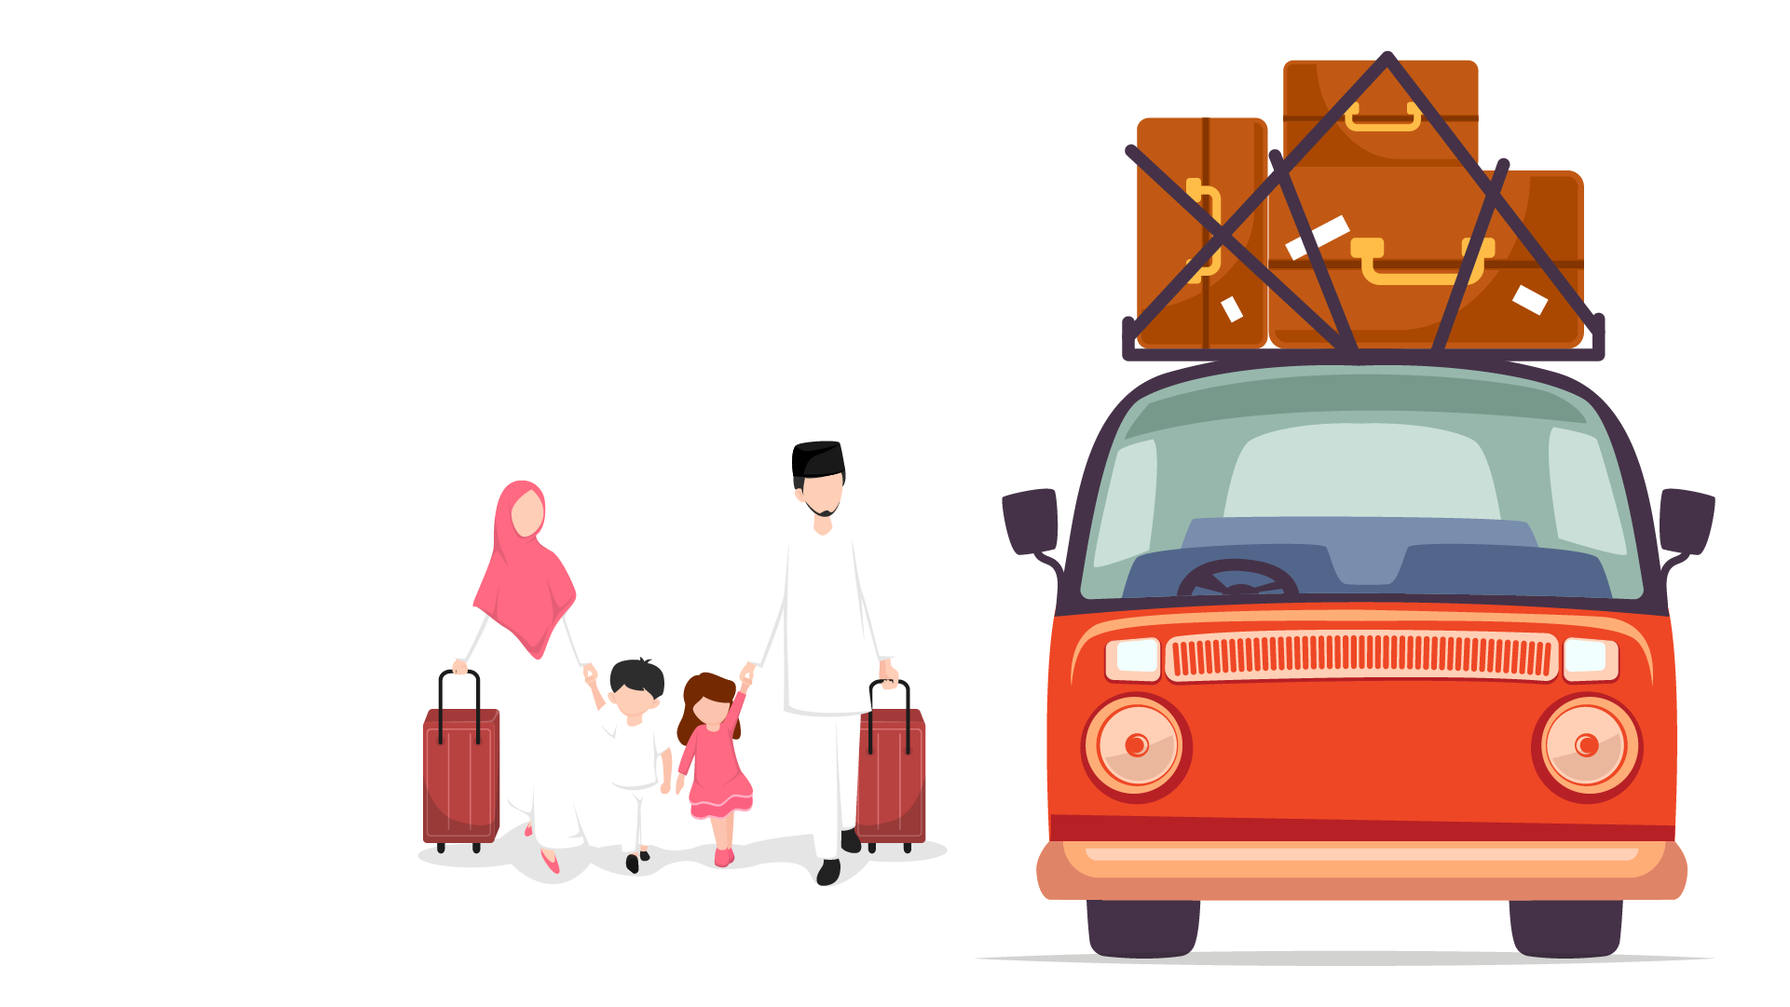
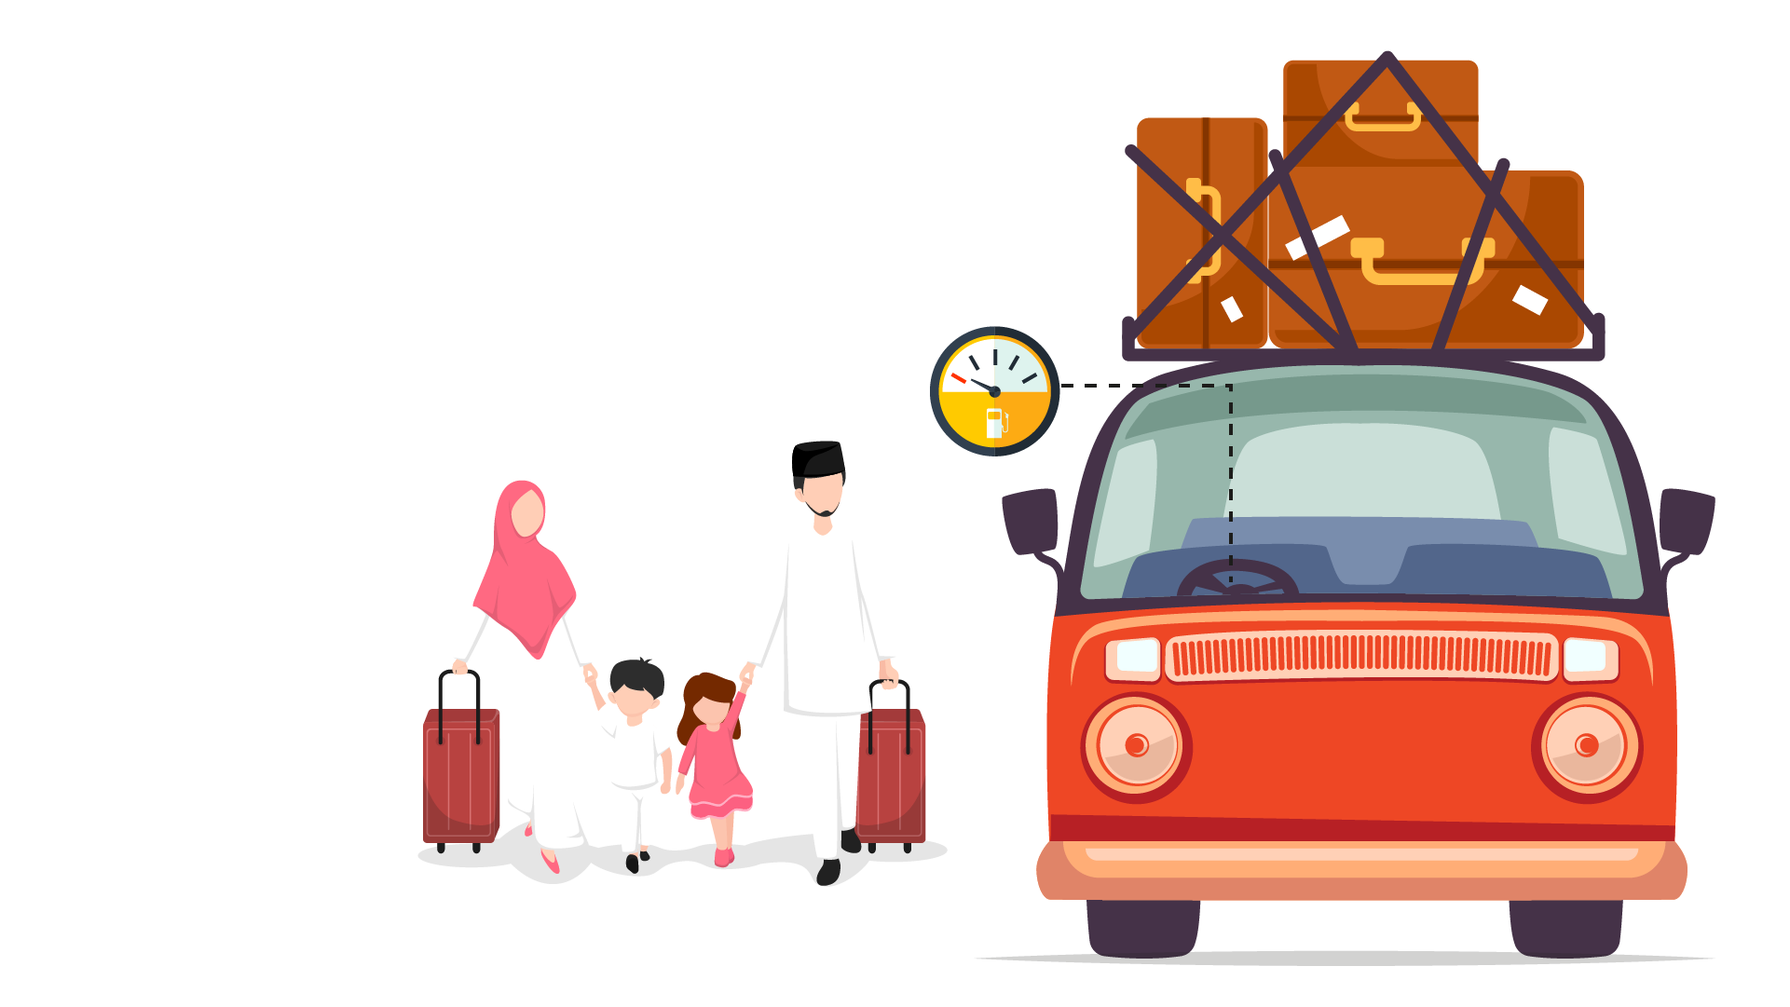
cdc

Changed region(s): [[0.4997, 0.3053, 0.5934, 0.4579]]

diff --git a/sass/style.css b/sass/style.css
@@ -1,1 +1,1 @@
-@import"https://fonts.googleapis.com/css2?family=Zain:wght@300;400;900&family=Bitter:wght@400;600&family=Rubik&family=Paytone+One&family=Source+Code+Pro:wght@400;900&family=Jost:ital,wght@0,100..900;1,100..900&family=Roboto&family=Outfit:wght@300;400;900&family=Sigmar&family=Righteous&display=swap";.banner{padding:0}@media screen and (max-width: 768px){.banner{min-height:85vh}}.banner .image{position:absolute;left:50%;top:50%;translate:-50% -50%;width:100%;height:100%}.banner .image img{width:100%;height:100%;object-fit:cover}.banner .title{position:absolute;left:8%;top:16%;width:45%}@media screen and (max-width: 768px){.banner .title{left:8%;top:16%;width:85%}}.banner .title h2{font-size:3.5rem;color:#05464c;font-family:"Righteous"}@media screen and (max-width: 768px){.banner .title h2{font-size:3rem}}.load{background:linear-gradient(to top, white, white);padding:16px;border-radius:24px;margin-bottom:32px;position:relative}.load::after{width:0;height:0;border-left:25px solid transparent;border-right:25px solid transparent;border-top:50px solid #fff;content:"";position:absolute;left:50%;top:100%;transform:translate(-50%, -50%);z-index:-1}.labels{background:#840020;padding:4px 8px;color:#fff;text-transform:uppercase;width:fit-content;margin:0 auto 8px;font-size:1rem}@media screen and (max-width: 768px){.labels{margin:0}}.preloader{position:fixed;top:0;bottom:0;left:0;right:0;z-index:999999;background:#7cffb1;background-size:contain}.preloader::before{content:"";position:absolute;inset:0;width:100%;height:100%;background:linear-gradient(to top, #7cffb1, rgba(124, 255, 177, 0.6), #7cffb1)}.preloader .waiting{position:absolute;transform:translate(-50%, -50%);left:50%;top:50%;width:100%}.preloader .waiting svg{width:100%;height:100%;visibility:hidden}.preloader .animate{-webkit-animation-duration:.5s;animation-duration:.5s;-webkit-animation-fill-mode:both;animation-fill-mode:both;-webkit-animation-timing-function:linear;animation-timing-function:linear;animation-iteration-count:infinite;-webkit-animation-iteration-count:infinite;-webkit-animation-name:bounce;animation-name:bounce}@-webkit-keyframes bounce{0%,100%{-webkit-transform:translateX(0)}50%{-webkit-transform:translateX(-10px)}}@keyframes bounce{0%,100%{transform:translateX(0)}50%{transform:translateX(-10px)}}.preloader .bounce{-webkit-animation-name:bounce;animation-name:bounce}.mb-80{margin-bottom:20vh}.source-code{font-family:"Source Code Pro"}section{padding:32px 0;background:#7cffb1;min-height:100vh;z-index:11;position:relative}section h3{font-family:"Outfit",sans-serif;font-weight:700;color:#124646;font-size:2rem}@media screen and (max-width: 768px){section h3{font-size:1.6rem}}section .bg-block{background:#fff;padding:16px;border-radius:16px}section p,section li{font-size:1.3rem}@media screen and (max-width: 768px){section p,section li{font-size:1.2rem}}@media screen and (max-width: 400px){section p,section li{font-size:1.2rem}}.slick-next,.slick-prev{z-index:17 !important;width:40px;height:40px;border-radius:50%;background:rgba(206,147,82,.8)}.slick-next:focus,.slick-next:hover,.slick-prev:focus,.slick-prev:hover{background:rgba(206,147,82,.5)}.slick-next::before,.slick-prev::before{font-family:"fontAwesome" !important;font-size:32px !important;color:#fff !important;font-weight:700 !important}@media screen and (max-width: 766px){.slick-next::before,.slick-prev::before{font-size:32px !important}}.slick-prev{left:-16px !important}@media screen and (max-width: 768px){.slick-prev{left:-16px !important}}.slick-prev::before{content:"" !important}.slick-next{right:-16px !important}@media screen and (max-width: 768px){.slick-next{right:-16px !important}}.slick-next::before{content:"" !important}.sticky-mode{position:sticky;left:0;right:0;top:0;bottom:0;min-height:100vh}.wrap-detikx{width:700px;position:relative;margin:0 auto}@media screen and (max-width: 766px){.wrap-detikx{width:90%;margin:0 auto;display:block}}.line-line{width:100%;height:1px;background:linear-gradient(to right, transparent, white, transparent);margin:24px 0}.totop{position:relative;z-index:19}.firstletter::first-letter{float:left;font-weight:bold;margin-right:8px;font-size:60px;font-size:6rem;line-height:40px;line-height:4rem;height:4rem;text-transform:uppercase}main{overflow-x:clip;background:#7cffb1}main p{color:#292828}html,body{position:relative;height:100%;background:#7cffb1;font-family:"Jost" !important;font-weight:400}html h1,html h2,body h1,body h2{font-family:"Jost";color:#124646;font-weight:700}h4,h5{font-family:"Jost",sans-serif !important;font-weight:bold}.slick-slide{margin:0 8px}.slick-list{margin:0 -8px}.img{width:100%}.img img{width:100%;height:100%;object-fit:cover}.hello{width:100%;height:auto;margin-top:8px;border-radius:16px;margin-bottom:16px;background:linear-gradient(to right, #baf5ed, rgba(186, 245, 237, 0.8));position:relative}.hello .content{padding:16px 16px;position:relative;z-index:2}.hello .content p{margin-bottom:0}section .nav-pills .nav-link.active,section .nav-pills .show>.nav-link{background:#333;color:#fff}section .nav-pills .nav-link{border-radius:25px}.dashboard-content{display:none}#nav.no_index,#share{z-index:19}#nav.dark{background:linear-gradient(-45deg, #33a4b9, #3f748d) !important}.footer{z-index:22}.share_icon>a i{font-size:25px !important;line-height:initial !important}@media screen and (max-width: 766px){.share_icon>a i{font-size:16px !important;line-height:initial !important;width:30px !important;height:30px !important}}#nav{background:linear-gradient(45deg, #333, #10607d) !important}.bg-blues{background:#7cffb1 !important;position:relative;z-index:12}.share_icon>a{padding:0 !important}.baca-detikx .bacajuga_box{display:initial !important}.baca-detikx .bacajuga_box .container{display:none}.baca-detikx .bacajuga{width:100% !important;display:block}.baca-detikx .bacajuga a{display:inline-block;padding:0px;width:47% !important;margin:0 8px;border-radius:24px;position:relative;height:320px;text-align:left}.baca-detikx .bacajuga a::after{border-radius:24px}@media screen and (max-width: 766px){.baca-detikx .bacajuga a{width:100% !important;margin:4px 0}}.baca-detikx .bacajuga a:hover{text-decoration:none;color:orange !important}.baca-detikx .bacajuga a article{position:absolute;top:initial;width:100%;background:linear-gradient(to top, black, transparent);padding:8px 16px;border-radius:24px;bottom:0;transform:initial}.baca-detikx .bacajuga a article h2{font-family:"Jost" !important;font-size:1.2rem;color:#fff !important}.haha,.hahad{background:#fff;border-radius:16px;padding:0px 8px;position:absolute;top:165px;right:0}@media screen and (max-width: 768px){.haha,.hahad{display:none;color:#333;top:140px}}.haha:hover,.hahad:hover{background:rgba(206,147,82,.5)}.all-helping{position:absolute;inset:0;background:#fff;text-align:center;width:100%;height:100%;z-index:17}.slider{display:none}.slider.slick-initialized{display:block}@media screen and (max-width: 768px){.help-bawah{position:fixed;bottom:0;left:0;right:0;width:100%;height:59px;background:#ccc;z-index:21}}.color-white{color:#fafafa}.color-second{color:#42d4bf}.add-shadow{text-shadow:2px 2px #000}.sticky{position:sticky;padding:8px;width:70px;z-index:21;top:50%;float:right}@media screen and (max-width: 768px){.sticky{position:sticky;padding:8px;width:100%;background:#42d4bf;z-index:30;top:92vh;height:60px}}@media screen and (max-width: 768px){.sticky .navigation{text-align:center;margin:0 auto}}@media screen and (max-width: 768px){.sticky .navigation a{display:inline-block;margin:0 8px}}.font-bold{font-weight:bold}#scroll-down-animation{position:absolute;top:90%;left:50%;z-index:3;transform:translate(-50%, -50%)}#scroll-down-animation small{color:#fafafa}.mouse{margin:0 auto;display:block;border-radius:50px;border:2px solid #fafafa;height:50px;width:25px;position:relative}.move{position:absolute;background-color:#fafafa;height:10px;width:10px;border-radius:50%;left:50%;transform:translateX(-50%);animation:move 2s linear infinite}@keyframes move{0%{transform:translate(-50%, 5px);opacity:0}50%{transform:translate(-50%, 20px);opacity:1}100%{transform:translate(-50%, 40px);opacity:0}}.creditx{min-height:auto;border-top:1px dashed #ccc}.creditx .alls{width:75%;font-size:1.2rem;margin:0 auto;text-align:center;color:#fff;margin-bottom:16px}@media screen and (max-width: 768px){.creditx .alls{width:100%;font-size:1rem}}.creditx .alls .jobs{font-weight:600}.pembukaan{min-height:auto}.data .carx{position:absolute;bottom:8%;right:8%;width:240px;height:auto}.data .carx img{width:100%;height:100%;object-fit:contain}.data .right-side{width:100%;position:sticky;right:0;top:0;height:100vh;overflow:hidden}@media screen and (max-width: 768px){.data .right-side{top:100px}}.data .photo{width:100%;height:100%;z-index:1;background-image:url("../img/bumper-mudik-04.png");background-size:contain;background-position:center;background-repeat:no-repeat}@media screen and (max-width: 768px){.data .photo{height:40%;background-size:cover}}.data .bagian{height:100vh}.data-judul{position:relative;z-index:3;background:rgba(5,70,76,.6);width:fit-content;border-radius:16px;padding:16px}.data-judul p{color:#fff}.data-judul h3{color:#fff;text-align:center;font-weight:500;font-family:"Righteous";font-size:2.2rem}/*# sourceMappingURL=style.css.map */
+@import"https://fonts.googleapis.com/css2?family=Zain:wght@300;400;900&family=Bitter:wght@400;600&family=Rubik&family=Paytone+One&family=Source+Code+Pro:wght@400;900&family=Jost:ital,wght@0,100..900;1,100..900&family=Roboto&family=Outfit:wght@300;400;900&family=Sigmar&family=Righteous&display=swap";.banner{padding:0}@media screen and (max-width: 768px){.banner{min-height:85vh}}.banner .image{position:absolute;left:50%;top:50%;translate:-50% -50%;width:100%;height:100%}.banner .image img{width:100%;height:100%;object-fit:cover}.banner .title{position:absolute;left:8%;top:16%;width:45%}@media screen and (max-width: 768px){.banner .title{left:8%;top:16%;width:85%}}.banner .title h2{font-size:3.5rem;color:#05464c;font-family:"Righteous"}@media screen and (max-width: 768px){.banner .title h2{font-size:3rem}}.load{background:linear-gradient(to top, white, white);padding:16px;border-radius:24px;margin-bottom:32px;position:relative}.load::after{width:0;height:0;border-left:25px solid transparent;border-right:25px solid transparent;border-top:50px solid #fff;content:"";position:absolute;left:50%;top:100%;transform:translate(-50%, -50%);z-index:-1}.labels{background:#840020;padding:4px 8px;color:#fff;text-transform:uppercase;width:fit-content;margin:0 auto 8px;font-size:1rem}@media screen and (max-width: 768px){.labels{margin:0}}.preloader{position:fixed;top:0;bottom:0;left:0;right:0;z-index:999999;background:#7cffb1;background-size:contain}.preloader::before{content:"";position:absolute;inset:0;width:100%;height:100%;background:linear-gradient(to top, #7cffb1, rgba(124, 255, 177, 0.6), #7cffb1)}.preloader .waiting{position:absolute;transform:translate(-50%, -50%);left:50%;top:50%;width:100%}.preloader .waiting svg{width:100%;height:100%;visibility:hidden}.preloader .animate{-webkit-animation-duration:.5s;animation-duration:.5s;-webkit-animation-fill-mode:both;animation-fill-mode:both;-webkit-animation-timing-function:linear;animation-timing-function:linear;animation-iteration-count:infinite;-webkit-animation-iteration-count:infinite;-webkit-animation-name:bounce;animation-name:bounce}@-webkit-keyframes bounce{0%,100%{-webkit-transform:translateX(0)}50%{-webkit-transform:translateX(-10px)}}@keyframes bounce{0%,100%{transform:translateX(0)}50%{transform:translateX(-10px)}}.preloader .bounce{-webkit-animation-name:bounce;animation-name:bounce}.mb-80{margin-bottom:20vh}.source-code{font-family:"Source Code Pro"}section{padding:32px 0;background:#7cffb1;min-height:100vh;z-index:11;position:relative}section h3{font-family:"Outfit",sans-serif;font-weight:700;color:#124646;font-size:2rem}@media screen and (max-width: 768px){section h3{font-size:1.6rem}}section .bg-block{background:#fff;padding:16px;border-radius:16px}section p,section li{font-size:1.3rem}@media screen and (max-width: 768px){section p,section li{font-size:1.2rem}}@media screen and (max-width: 400px){section p,section li{font-size:1.2rem}}.slick-next,.slick-prev{z-index:17 !important;width:40px;height:40px;border-radius:50%;background:rgba(206,147,82,.8)}.slick-next:focus,.slick-next:hover,.slick-prev:focus,.slick-prev:hover{background:rgba(206,147,82,.5)}.slick-next::before,.slick-prev::before{font-family:"fontAwesome" !important;font-size:32px !important;color:#fff !important;font-weight:700 !important}@media screen and (max-width: 766px){.slick-next::before,.slick-prev::before{font-size:32px !important}}.slick-prev{left:-16px !important}@media screen and (max-width: 768px){.slick-prev{left:-16px !important}}.slick-prev::before{content:"" !important}.slick-next{right:-16px !important}@media screen and (max-width: 768px){.slick-next{right:-16px !important}}.slick-next::before{content:"" !important}.sticky-mode{position:sticky;left:0;right:0;top:0;bottom:0;min-height:100vh}.wrap-detikx{width:700px;position:relative;margin:0 auto}@media screen and (max-width: 766px){.wrap-detikx{width:90%;margin:0 auto;display:block}}.line-line{width:100%;height:1px;background:linear-gradient(to right, transparent, white, transparent);margin:24px 0}.totop{position:relative;z-index:19}.firstletter::first-letter{float:left;font-weight:bold;margin-right:8px;font-size:60px;font-size:6rem;line-height:40px;line-height:4rem;height:4rem;text-transform:uppercase}main{overflow-x:clip;background:#7cffb1}main p{color:#292828}html,body{position:relative;height:100%;background:#7cffb1;font-family:"Jost" !important;font-weight:400}html h1,html h2,body h1,body h2{font-family:"Jost";color:#124646;font-weight:700}h4,h5{font-family:"Jost",sans-serif !important;font-weight:bold}.slick-slide{margin:0 8px}.slick-list{margin:0 -8px}.img{width:100%}.img img{width:100%;height:100%;object-fit:cover}.hello{width:100%;height:auto;margin-top:8px;border-radius:16px;margin-bottom:16px;background:linear-gradient(to right, #baf5ed, rgba(186, 245, 237, 0.8));position:relative}.hello .content{padding:16px 16px;position:relative;z-index:2}.hello .content p{margin-bottom:0}section .nav-pills .nav-link.active,section .nav-pills .show>.nav-link{background:#333;color:#fff}section .nav-pills .nav-link{border-radius:25px}.dashboard-content{display:none}#nav.no_index,#share{z-index:19}#nav.dark{background:linear-gradient(-45deg, #33a4b9, #3f748d) !important}.footer{z-index:22}.share_icon>a i{font-size:25px !important;line-height:initial !important}@media screen and (max-width: 766px){.share_icon>a i{font-size:16px !important;line-height:initial !important;width:30px !important;height:30px !important}}#nav{background:linear-gradient(45deg, #333, #10607d) !important}.bg-blues{background:#7cffb1 !important;position:relative;z-index:12}.share_icon>a{padding:0 !important}.baca-detikx .bacajuga_box{display:initial !important}.baca-detikx .bacajuga_box .container{display:none}.baca-detikx .bacajuga{width:100% !important;display:block}.baca-detikx .bacajuga a{display:inline-block;padding:0px;width:47% !important;margin:0 8px;border-radius:24px;position:relative;height:320px;text-align:left}.baca-detikx .bacajuga a::after{border-radius:24px}@media screen and (max-width: 766px){.baca-detikx .bacajuga a{width:100% !important;margin:4px 0}}.baca-detikx .bacajuga a:hover{text-decoration:none;color:orange !important}.baca-detikx .bacajuga a article{position:absolute;top:initial;width:100%;background:linear-gradient(to top, black, transparent);padding:8px 16px;border-radius:24px;bottom:0;transform:initial}.baca-detikx .bacajuga a article h2{font-family:"Jost" !important;font-size:1.2rem;color:#fff !important}.haha,.hahad{background:#fff;border-radius:16px;padding:0px 8px;position:absolute;top:165px;right:0}@media screen and (max-width: 768px){.haha,.hahad{display:none;color:#333;top:140px}}.haha:hover,.hahad:hover{background:rgba(206,147,82,.5)}.all-helping{position:absolute;inset:0;background:#fff;text-align:center;width:100%;height:100%;z-index:17}.slider{display:none}.slider.slick-initialized{display:block}@media screen and (max-width: 768px){.help-bawah{position:fixed;bottom:0;left:0;right:0;width:100%;height:59px;background:#ccc;z-index:21}}.color-white{color:#fafafa}.color-second{color:#42d4bf}.add-shadow{text-shadow:2px 2px #000}.sticky{position:sticky;padding:8px;width:70px;z-index:21;top:50%;float:right}@media screen and (max-width: 768px){.sticky{position:sticky;padding:8px;width:100%;background:#42d4bf;z-index:30;top:92vh;height:60px}}@media screen and (max-width: 768px){.sticky .navigation{text-align:center;margin:0 auto}}@media screen and (max-width: 768px){.sticky .navigation a{display:inline-block;margin:0 8px}}.font-bold{font-weight:bold}#scroll-down-animation{position:absolute;top:90%;left:50%;z-index:3;transform:translate(-50%, -50%)}#scroll-down-animation small{color:#fafafa}.mouse{margin:0 auto;display:block;border-radius:50px;border:2px solid #fafafa;height:50px;width:25px;position:relative}.move{position:absolute;background-color:#fafafa;height:10px;width:10px;border-radius:50%;left:50%;transform:translateX(-50%);animation:move 2s linear infinite}@keyframes move{0%{transform:translate(-50%, 5px);opacity:0}50%{transform:translate(-50%, 20px);opacity:1}100%{transform:translate(-50%, 40px);opacity:0}}.creditx{min-height:auto;border-top:1px dashed #ccc}.creditx .alls{width:75%;font-size:1.2rem;margin:0 auto;text-align:center;color:#fff;margin-bottom:16px}@media screen and (max-width: 768px){.creditx .alls{width:100%;font-size:1rem}}.creditx .alls .jobs{font-weight:600}.pembukaan{min-height:auto}.data .carx{position:absolute;bottom:8%;right:8%;width:240px;height:auto}.data .carx img{width:100%;height:100%;object-fit:contain}.data .right-side{width:100%;position:sticky;right:0;top:0;height:100vh;overflow:hidden}@media screen and (max-width: 768px){.data .right-side{top:100px}}.data .photo{width:100%;height:100%;z-index:1;background-image:url("../img/bumper-mudik-04.png");background-size:contain;background-position:center;background-repeat:no-repeat}@media screen and (max-width: 768px){.data .photo{height:40%;background-size:cover}}.data .bagian{height:100vh}.data-judul{position:relative;z-index:3;background:rgba(5,70,76,.6);width:fit-content;border-radius:16px;padding:16px}.data-judul p{color:#fff}.data-judul h3{color:#fff;text-align:center;font-weight:500;font-family:"Righteous";font-size:2.2rem}.ev{padding:32px 0 0}.ev .bg-blue{background:#7cc5cf}@media screen and (max-width: 768px){.ev .image{width:100%;scale:1.5;position:relative;left:24%}}@media screen and (max-width: 768px){.ev .image img{width:100%;height:100%;object-fit:contain}}/*# sourceMappingURL=style.css.map */

diff --git a/index.html b/index.html
@@ -38,7 +38,7 @@
                 <div class="bagian">
                     <div class="wrap-detikx">
                         <div class="data-judul">
-                            <h3>Roda Ban</h3>
+                            <h3>Ban Mobil</h3>
                         </div>
                     </div>
                 </div>
@@ -80,7 +80,7 @@
                 <div class="bagian">
                     <div class="wrap-detikx">
                         <div class="data-judul">
-                            <h3>Perhiasan tidak berlebihan</h3>
+                            <h3>Bensin</h3>
                         </div>
                     </div>
                 </div>
@@ -88,8 +88,35 @@
                     <div class="wrap-detikx">
                         <div class="data-judul">
                             <p>
-                                Lorem ipsum dolor sit, amet consectetur adipisicing elit. Molestias dolores at odit ut iusto molestiae ratione architecto in ipsum doloremque dolore vero alias, sed repellat suscipit nemo voluptatem omnis ipsa!
+                                Pastikan bensin sudah terisi penuh, amet consectetur adipisicing elit. Molestias dolores at odit ut iusto molestiae ratione architecto in ipsum doloremque dolore vero alias, sed repellat suscipit nemo voluptatem omnis ipsa!
                             </p>
+                        </div>
+                    </div>
+                </div>
+            </section>
+            <section class="ev">
+                <div class="wrap-detikx">
+                    <h3>Persiapan Mobil Listrik</h3>
+                    <p>Lorem ipsum dolor sit amet consectetur adipisicing elit. Ullam maxime fugiat modi aspernatur ut aperiam amet mollitia dolor illo assumenda quam asperiores itaque a autem, ea deleniti voluptate aut commodi.</p>
+                    <div class="image">
+                        <img src="img/ev-car.png" alt="">
+                    </div>
+                </div>
+                <div class="bg-blue py-5">
+                    <div class="wrap-detikx">
+                        <div class="d-block">
+                            <div class="ev-wrap">
+                                <h4 class="judulv">Baterai</h4>
+                                <p>Lorem ipsum dolor sit amet consectetur adipisicing elit. Optio, natus sunt laboriosam eos dolores temporibus ullam aliquid delectus similique mollitia aspernatur</p>
+                            </div>
+                            <div class="ev-wrap">
+                                <h4 class="judulv">Kelistrikan</h4>
+                                <p>Lorem ipsum dolor sit amet consectetur adipisicing elit. Optio, natus sunt laboriosam eos dolores temporibus ullam aliquid delectus similique mollitia aspernatur</p>
+                            </div>
+                            <div class="ev-wrap">
+                                <h4 class="judulv">Kaki-kaki Mobil</h4>
+                                <p>Lorem ipsum dolor sit amet consectetur adipisicing elit. Optio, natus sunt laboriosam eos dolores temporibus ullam aliquid delectus similique mollitia aspernatur</p>
+                            </div>
                         </div>
                     </div>
                 </div>

diff --git a/sass/ev.scss b/sass/ev.scss
@@ -1,0 +1,23 @@
+.ev {
+    // background: linear-gradient(to bottom, $colorred, #7cc5cf);
+    padding: 32px 0 0;
+    .bg-blue {
+        background: #7cc5cf;
+    }
+    .image {
+        @media screen and (max-width: 768px) {
+            width: 100%;
+            /* height: 50vh; */
+            scale: 1.5;
+            position: relative;
+            left: 24%;
+        }
+        img {
+            @media screen and (max-width: 768px) {
+                width: 100%;
+                height: 100%;
+                object-fit: contain;
+            }
+        }
+    }
+}

diff --git a/js/scroll-zoom-section.js b/js/scroll-zoom-section.js
@@ -35,7 +35,7 @@ const zoomData = [
     { scale: 1, origin: [0.5, 0.5] },
     { scale: 2, origin: [0.8, 0.8] }, //ke lampu
     { scale: 1, origin: [0.5, 0.5] },
-    { scale: 2, origin: [0.4, 0.7] },
+    { scale: 2.5, origin: [.6, .4] },
     { scale: 1, origin: [0.5, 0.5] },
 ];
 

diff --git a/sass/style.scss b/sass/style.scss
@@ -2,3 +2,4 @@
 @import "init";
 @import "pembukaan";
 @import "data";
+@import "ev";
